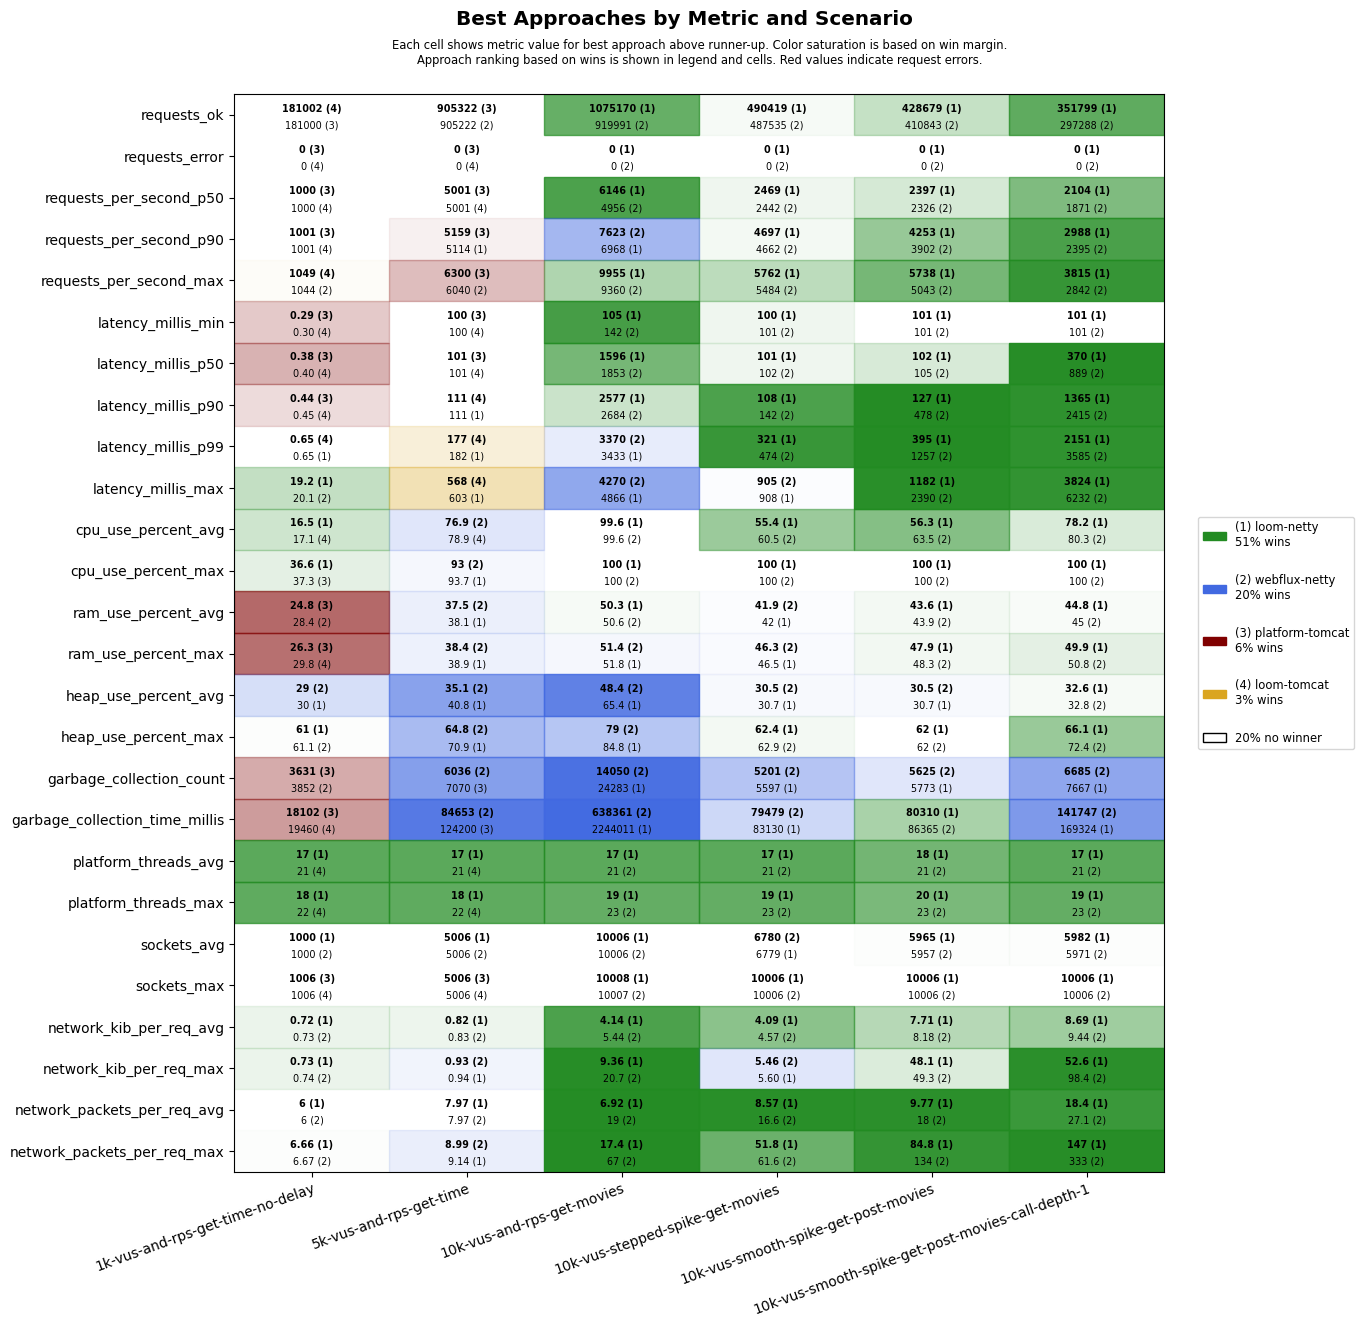
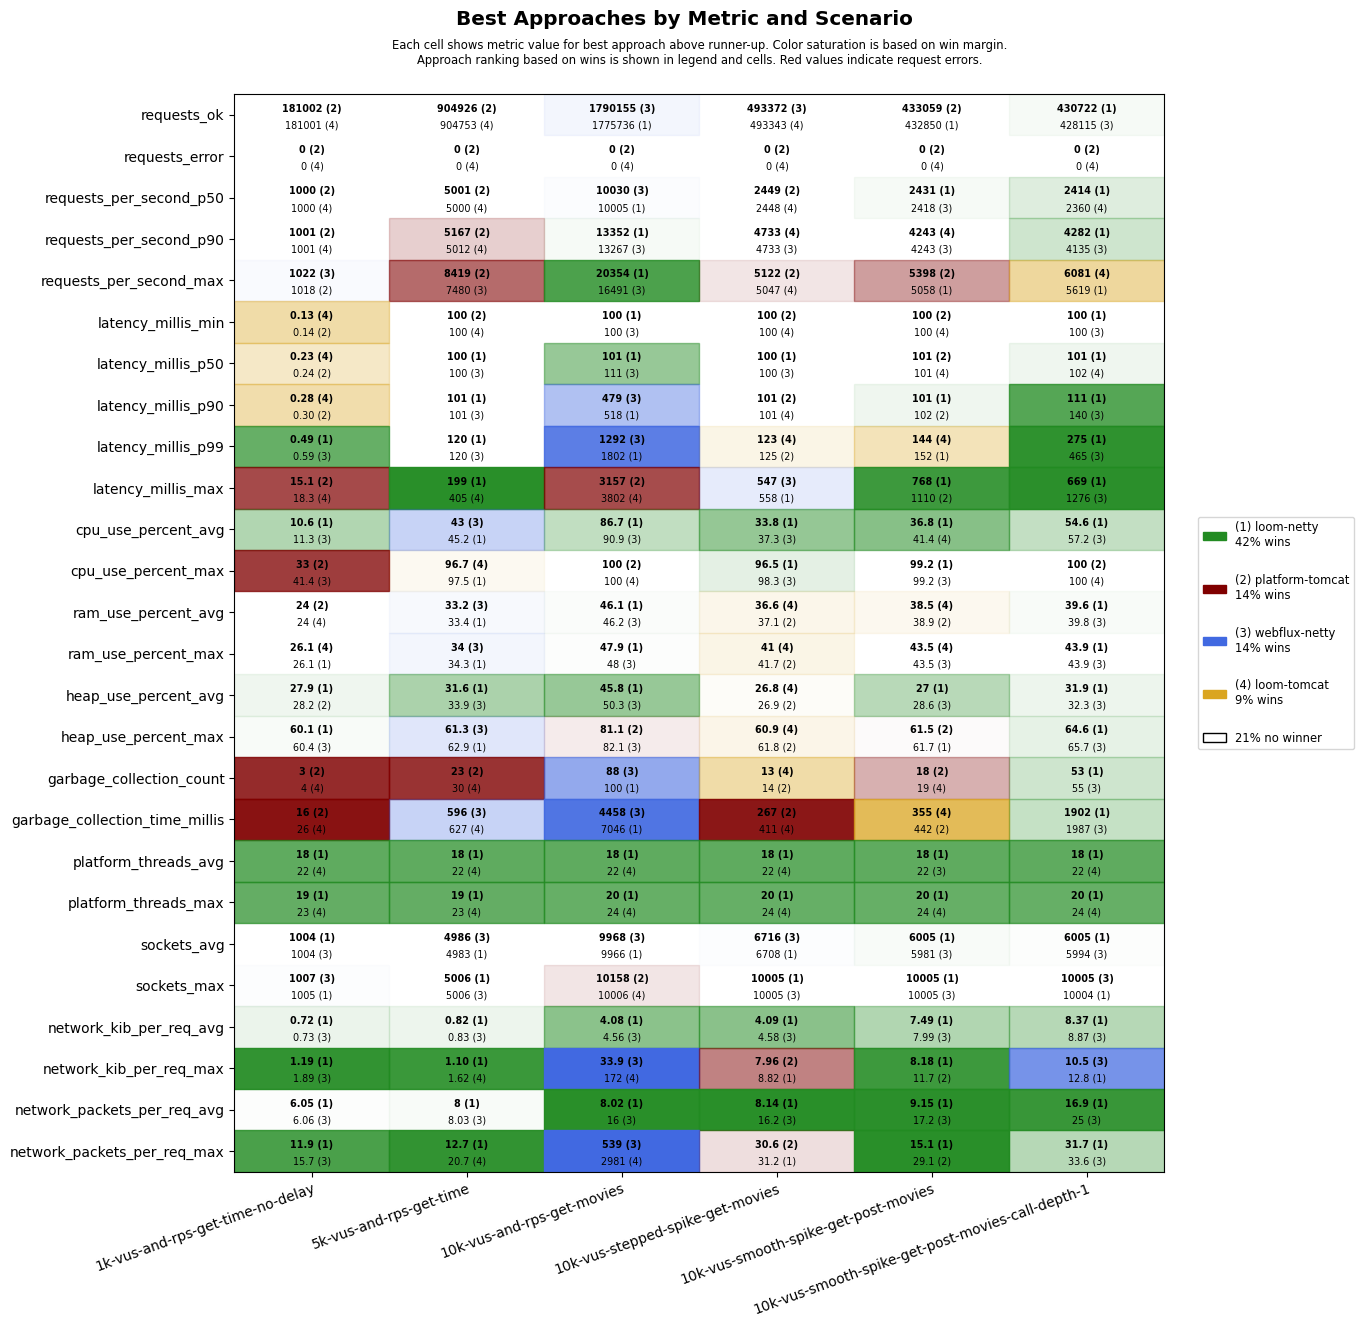
Apply automatic changes

Changed region(s): [[0.154, 0.0618, 0.9853, 0.6488], [0.154, 0.6797, 0.8622, 0.896], [0.6774, 0.4017, 0.7082, 0.4635]]

diff --git a/results/ci/scenarios-ci/ubuntu-24.04/java-21/results.md b/results/ci/scenarios-ci/ubuntu-24.04/java-21/results.md
@@ -4,23 +4,23 @@
 
 | **Name**                | **Value** |
 |-------------------------|-----------|
-| **Start (UTC)** | 2026-05-02 03:11:30 |
-| **End (UTC)** | 2026-05-02 04:35:03 |
-| **Duration (hh:mm:ss)** | 01:23:33 |
+| **Start (UTC)** | 2026-08-02 03:08:35 |
+| **End (UTC)** | 2026-08-02 04:49:48 |
+| **Duration (hh:mm:ss)** | 01:41:13 |
 
 ## System Specs
 
 | **Name**                | **Value** |
 |-------------------------|-----------|
-| **Java** | OpenJDK 64-Bit Server VM Corretto-21.0.11.10.1 (build 21.0.11+10-LTS, mixed mode, sharing) |
-| **Spring Boot** | 3.5.14 |
+| **Java** | OpenJDK 64-Bit Server VM Corretto-21.0.12.8.1 (build 21.0.12+8-LTS, mixed mode, sharing) |
+| **Spring Boot** | 4.1.0 |
 | **Python** | 3.12.3 |
 | **OS** | Ubuntu 24.04.4 LTS |
-| **Kernel** | 6.17.0-1010-azure |
-| **CPU** | AMD EPYC 9V74 80-Core Processor |
+| **Kernel** | 6.17.0-1020-azure |
+| **CPU** | Intel(R) Xeon(R) Platinum 8370C CPU @ 2.80GHz |
 | **CPU Cores** | 4 |
-| **RAM** | 15Gi total, 11Gi available |
-| **Disk** | 158G total, 100G available |
+| **RAM** | 15Gi total, 12Gi available |
+| **Disk** | 158G total, 97G available |
 
 ## Scenarios
 
